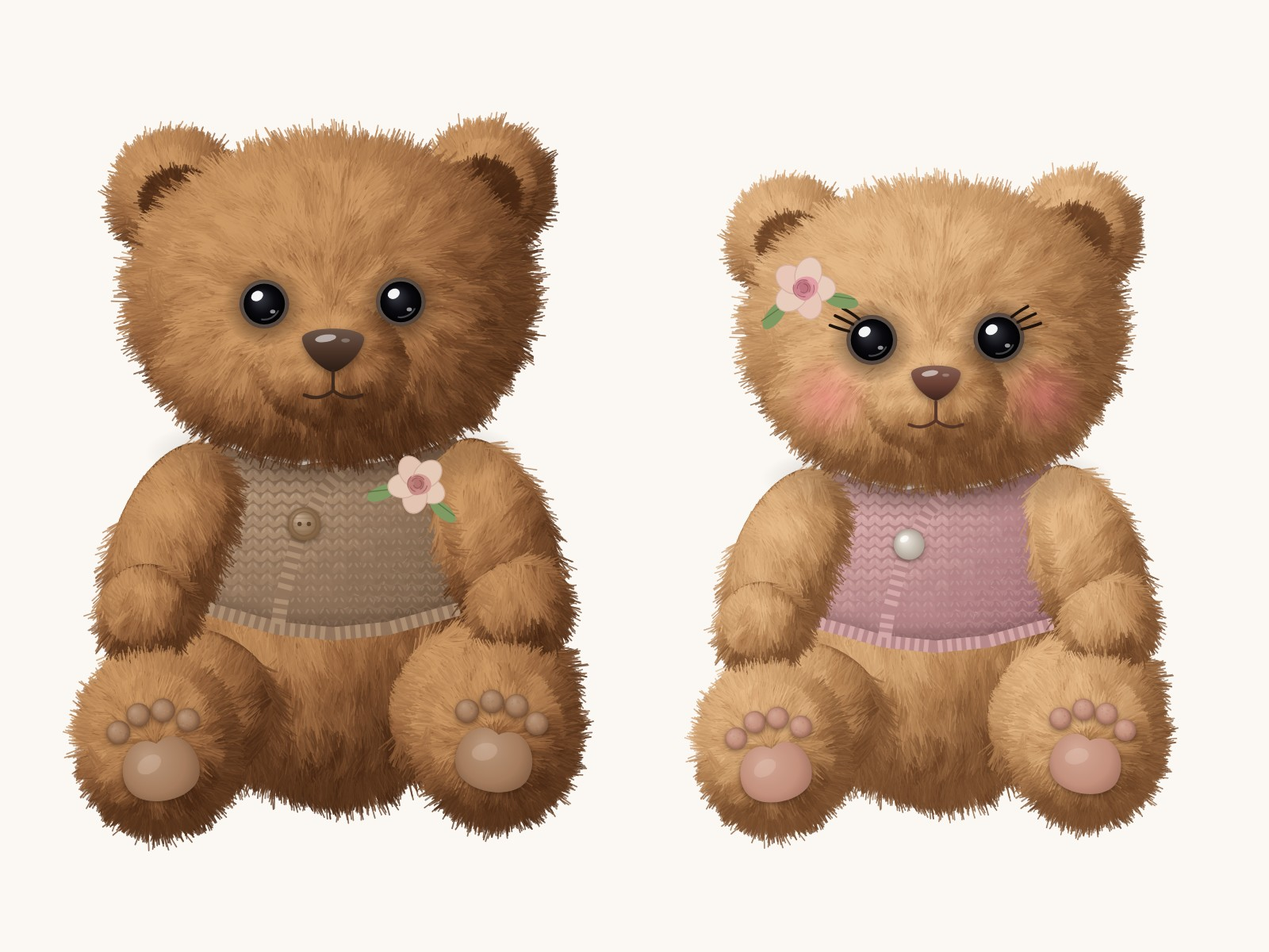
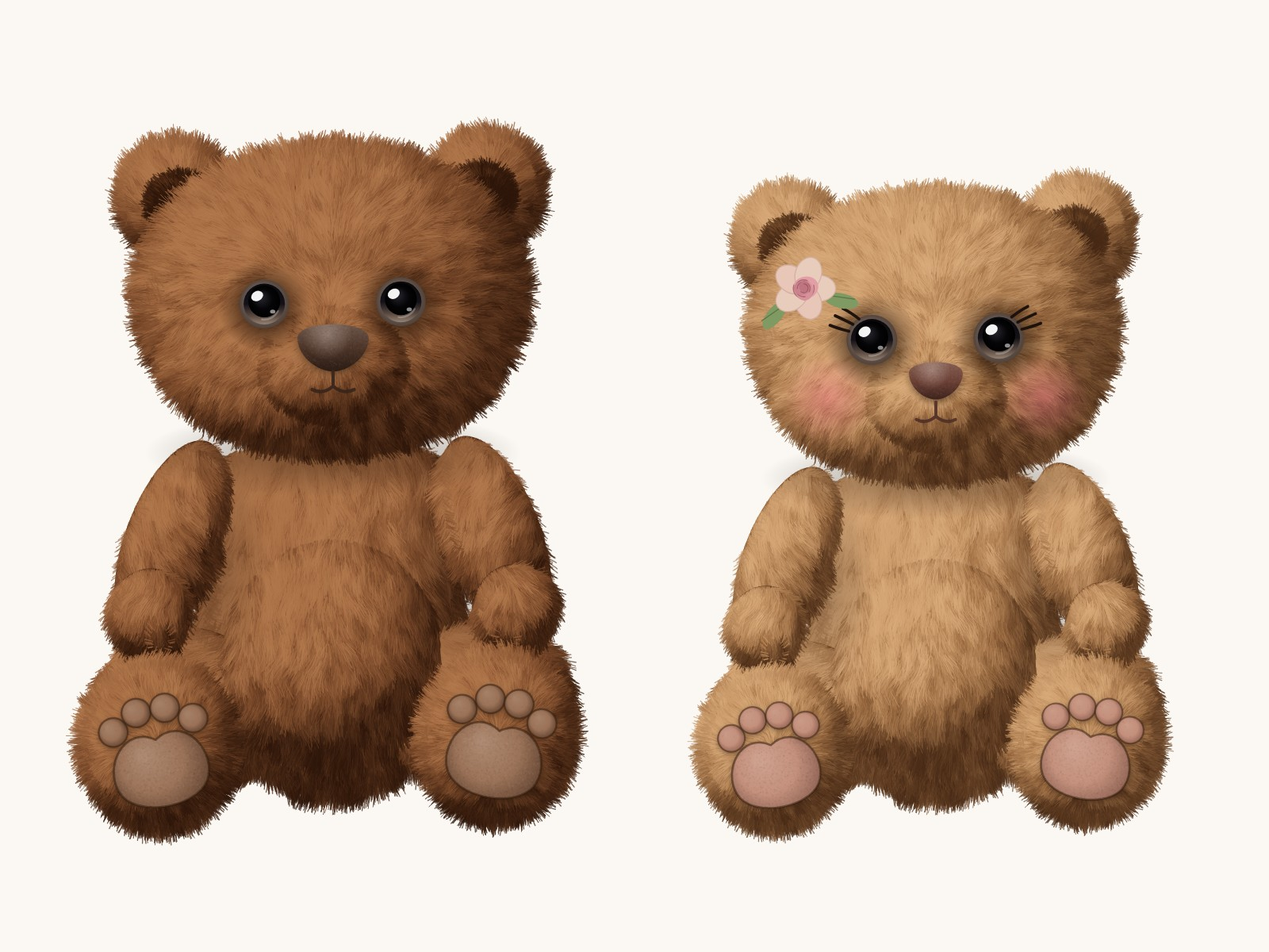
Quiet Moon: bear model sheet without vests, closer to the plush photo
Finer three-layer mohair, glass eyes with a smoky iris, matte felt nose,
big matte foot pads, palm pads, slimmer arms. She keeps her rose.

Claude-Session: https://claude.ai/code/session_01TQagdzuNLkEBLnnKwjzNDR

Changed region(s): [[0.0312, 0.1233, 0.4688, 0.8942], [0.5312, 0.1542, 0.9375, 0.8942]]

diff --git a/designs/quiet-moon-bears/model-sheet.html b/designs/quiet-moon-bears/model-sheet.html
@@ -24,7 +24,7 @@ th{font-weight:normal;color:var(--soft)}
 <body>
 <main>
 <h1>Quiet Moon Bears: model sheet</h1>
-<p class="sub">Turnaround drawings for the 3D bears. He is drawn from the photo: same face, proportions, fur and vest. She is designed from him.</p>
+<p class="sub">Turnaround drawings for the 3D bears. He is drawn from the photo: same face, proportions and fur. She is designed from him. No clothes; she keeps her rose.</p>
 
 <h2>Reference photos</h2>
 <div class="row">
@@ -70,10 +70,10 @@ th{font-weight:normal;color:var(--soft)}
 <tr><th>Feet</th><td>Big oval soles. Smooth tan pad (looks like suede or clay) and 4 toe beans</td><td>Same, rosy tan</td></tr>
 <tr><th>Tail</th><td>Small round fur ball, low on the back</td><td>Same</td></tr>
 <tr><th>Fur</th><td>Medium-long shaggy mohair, clumps falling slightly down. Darker at the roots, lighter tips</td><td>Same length, softer and a little curlier</td></tr>
-<tr><th>Clothes</th><td>Oatmeal cable-knit vest, one wooden button on the left, small dusty-pink rose on his left chest</td><td>Dusty-rose knit vest, cream pearl button, the same rose at her ear</td></tr>
+<tr><th>Accessories</th><td>None</td><td>Dusty-pink rose by her right ear</td></tr>
 <tr><th>Colours</th>
-<td><span class="sw" style="background:#a8754c"></span>fur #a8754c<br><span class="sw" style="background:#6a4026"></span>fur shadow #6a4026<br><span class="sw" style="background:#a47b5c"></span>pads #a47b5c<br><span class="sw" style="background:#4a3226"></span>nose #4a3226<br><span class="sw" style="background:#a08167"></span>vest #a08167</td>
-<td><span class="sw" style="background:#c79464"></span>fur #c79464<br><span class="sw" style="background:#8a5a36"></span>fur shadow #8a5a36<br><span class="sw" style="background:#c3907c"></span>pads #c3907c<br><span class="sw" style="background:#6a3f34"></span>nose #6a3f34<br><span class="sw" style="background:#c99a98"></span>vest #c99a98</td></tr>
+<td><span class="sw" style="background:#a8754c"></span>fur #a8754c<br><span class="sw" style="background:#6a4026"></span>fur shadow #6a4026<br><span class="sw" style="background:#a47b5c"></span>pads #a47b5c<br><span class="sw" style="background:#4a3226"></span>nose #4a3226</td>
+<td><span class="sw" style="background:#c79464"></span>fur #c79464<br><span class="sw" style="background:#8a5a36"></span>fur shadow #8a5a36<br><span class="sw" style="background:#c3907c"></span>pads #c3907c<br><span class="sw" style="background:#6a3f34"></span>nose #6a3f34<br><span class="sw" style="background:#e2a0a6"></span>rose #e2a0a6</td></tr>
 </table>
 </main>
 
@@ -93,10 +93,8 @@ const rgb=(c,a=1)=>`rgba(${c[0]|0},${c[1]|0},${c[2]|0},${a})`;
 const LIGHT=(()=>{ const l=[-.45,-.62,.64], n=Math.hypot(...l); return l.map(v=>v/n); })();
 
 const STYLE={
-  he:{dark:'#4a2a16',mid:'#8e5c37',light:'#c8935f',tip:'#dcae7c',pad:'#a47b5c',padD:'#6e4a33',nose:'#4a3226',vest:'#a08167',vestD:'#6f5640',vestL:'#c4a888',
-      btn:'#a8835c',rose:'#d39a92',roseD:'#a35f5c',girl:false,s:1},
-  she:{dark:'#6a4226',mid:'#ad7a4c',light:'#e0b17f',tip:'#f0cfa3',pad:'#c3907c',padD:'#8f5e4e',nose:'#6a3f34',vest:'#c99a98',vestD:'#93626a',vestL:'#e8c3c0',
-      btn:'#f4ece0',rose:'#e2a0a6',roseD:'#ad5f6c',girl:true,s:.93}};
+  he:{dark:'#2e170b',mid:'#764628',light:'#a96f45',tip:'#c99566',pad:'#9a7258',padD:'#5e3e2b',nose:'#4a3226',girl:false,s:1},
+  she:{dark:'#4a2c18',mid:'#9a6a40',light:'#cf9d6c',tip:'#f0cfa3',pad:'#c3907c',padD:'#8f5e4e',nose:'#6a3f34',rose:'#e2a0a6',roseD:'#ad5f6c',girl:true,s:.93}};
 
 /* ---------- one furry ellipse ---------- */
 // p: {x,y,rx,ry,rot, flow(x,y)->angle, len, dens, tone (0..1 base brightness), fuzz (edge hair 0..1), arc:[a0,a1] edge range}
@@ -104,45 +102,52 @@ function fur(g,S,p){
   const dark=hex(S.dark), mid=hex(S.mid), light=hex(S.light), tip=hex(S.tip);
   const cr=cos(p.rot||0), sr=sin(p.rot||0);
   const local=(x,y)=>{ const dx=x-p.x, dy=y-p.y; return [(dx*cr+dy*sr)/p.rx,(-dx*sr+dy*cr)/p.ry]; };
-  const shadeAt=(x,y)=>{ const [u,v]=local(x,y), r2=u*u+v*v; if(r2>1.15) return -1; const nz=Math.sqrt(Math.max(0,1-Math.min(1,r2)));
+  const shadeAt=(x,y)=>{ const [u0,v0]=local(x,y); if(u0*u0+v0*v0>1.15) return -1; let u=u0, v=v0;
+    if(p.sh){ u=(x-p.sh[0])/p.sh[2]; v=(y-p.sh[1])/p.sh[3]; } const r2=u*u+v*v; const nz=Math.sqrt(Math.max(0,1-Math.min(1,r2)));
     const nx=u*cr-v*sr, ny=u*sr+v*cr; let d=nx*LIGHT[0]+ny*LIGHT[1]+nz*LIGHT[2];
     return cl(.18+.82*Math.max(0,d)*(p.tone??1)-.12*Math.max(0,v)*(p.ao??1),0,1); };
   const col=(s,t)=>{ let c=s<.5?mix(dark,mid,s*2):mix(mid,light,(s-.5)*2); return mix(c,tip,t*.35*s); };
   // undercoat: smooth shading
-  g.save(); g.translate(p.x,p.y); g.rotate(p.rot||0);
+  if(p.under!==false){ g.save(); g.translate(p.x,p.y); g.rotate(p.rot||0);
   const gr=g.createRadialGradient(-p.rx*.35,-p.ry*.4,p.rx*.1,0,0,Math.max(p.rx,p.ry)*1.05);
   gr.addColorStop(0,rgb(col(.62*(p.tone??1),0))); gr.addColorStop(.7,rgb(col(.32,0))); gr.addColorStop(1,rgb(col(.12,0)));
-  g.fillStyle=gr; g.beginPath(); g.ellipse(0,0,p.rx,p.ry,0,0,2*PI); g.fill(); g.restore();
-  const L=p.len*(p.scale||1), area=PI*p.rx*p.ry, n=Math.round(area*(p.dens||.32));
-  const stroke=(x,y,a,len,s,w,alpha,t)=>{ const bend=(rnd()-.5)*.9, mx=x+cos(a)*len*.5+cos(a+PI/2)*len*bend*.25, my=y+sin(a)*len*.5+sin(a+PI/2)*len*bend*.25;
-    g.strokeStyle=rgb(col(s,t),alpha); g.lineWidth=w; g.beginPath(); g.moveTo(x,y); g.quadraticCurveTo(mx,my,x+cos(a+bend*.4)*len,y+sin(a+bend*.4)*len); g.stroke(); };
+  g.fillStyle=gr; g.beginPath(); g.ellipse(0,0,p.rx,p.ry,0,0,2*PI); g.fill(); g.restore(); }
+  const L=p.len*(p.scale||1), area=PI*p.rx*p.ry, n=Math.round(area*(p.dens||.5));
+  // one hair: a soft S-curve (mohair has a little crimp), thin at the tip
+  const stroke=(x,y,a,len,s,w,alpha,t)=>{ const bend=(rnd()-.5)*.8, crimp=(rnd()-.5)*.5, ex=x+cos(a+bend*.35)*len, ey=y+sin(a+bend*.35)*len;
+    const c1x=x+cos(a)*len*.33+cos(a+PI/2)*len*crimp*.3, c1y=y+sin(a)*len*.33+sin(a+PI/2)*len*crimp*.3;
+    const c2x=x+cos(a)*len*.66-cos(a+PI/2)*len*(crimp-bend)*.25, c2y=y+sin(a)*len*.66-sin(a+PI/2)*len*(crimp-bend)*.25;
+    g.strokeStyle=rgb(col(s,t),alpha); g.lineWidth=w; g.beginPath(); g.moveTo(x,y); g.bezierCurveTo(c1x,c1y,c2x,c2y,ex,ey); g.stroke(); };
   g.lineCap='round';
-  // two passes: dense darker under-hair, then lighter top hair in tufts
-  for(let pass=0;pass<2;pass++){ const cnt=pass?n*.55:n;
+  // three layers: dark dense under-hair, the main coat in tufts, then a few light glossy tips on top
+  const PASS=[[1,.7,1.3,.5,.78,0],[.9,1,.95,.7,1,.6],[.3,1.05,.7,.75,1.18,1]];
+  for(const [k,lk,w,al,sm,tp] of PASS){ const cnt=n*k;
     for(let i=0;i<cnt;i++){ const a0=rnd()*2*PI, r0=Math.sqrt(rnd()), u=cos(a0)*r0, v=sin(a0)*r0;
       const x=p.x+(u*p.rx)*cr-(v*p.ry)*sr, y=p.y+(u*p.rx)*sr+(v*p.ry)*cr; const s=shadeAt(x,y); if(s<0) continue;
-      const tuft=noise(x*.045,y*.045), ang=p.flow(x,y)+(tuft-.5)*1.3+(rnd()-.5)*.5;
-      const clump=noise(x*.11+9,y*.11+3);
-      const ss=cl(s*(pass?1.02:.82)+(clump-.5)*.32+(rnd()-.5)*.14,0,1);
-      stroke(x,y,ang,L*(.55+rnd()*.7)*(pass?1.1:.8),ss,pass?1.25:1.6,pass?.75:.6,pass?clump:0); } }
+      const tuft=noise(x*.05,y*.05), ang=p.flow(x,y)+(tuft-.5)*1.2+(rnd()-.5)*.45;
+      const clump=noise(x*.13+9,y*.13+3), pn=noise(x*.2+40,y*.2+17), part=1-.22*cl((.32-pn)/.12,0,1); // darker partings between clumps
+      const ss=cl(s*sm*part+(clump-.5)*.3+(rnd()-.5)*.16,0,1);
+      stroke(x,y,ang,L*(.55+rnd()*.6)*lk,ss,w,al,tp*clump); } }
   // fuzzy edge: hairs sticking out past the outline
-  const [e0,e1]=p.arc||[0,2*PI], ne=Math.round((p.rx+p.ry)*(e1-e0)/2*(p.fuzz??1)*1.6);
+  const [e0,e1]=p.arc||[0,2*PI], ne=Math.round((p.rx+p.ry)*(e1-e0)/2*(p.fuzz??1)*1.8);
   for(let i=0;i<ne;i++){ const t=e0+rnd()*(e1-e0), k=.9+rnd()*.08; const lx=cos(t)*p.rx*k, ly=sin(t)*p.ry*k;
     const x=p.x+lx*cr-ly*sr, y=p.y+lx*sr+ly*cr; const nAng=Math.atan2(sin(t)/p.ry,cos(t)/p.rx)+(p.rot||0);
     const fl=p.flow(x,y); let ang=nAng*.55+fl*.45; if(Math.abs(nAng-fl)>PI) ang+=PI*.45; ang+=(rnd()-.5)*.7;
-    const s=cl(shadeAt(x,y)*.95+(rnd()-.5)*.2,0,1); stroke(x,y,ang,L*(.45+rnd()*.6),Math.max(s,.08),1.15,.7,.6); }
+    const s=cl(shadeAt(x,y)*.95+(rnd()-.5)*.2,0,1); stroke(x,y,ang,L*(.25+rnd()*.45),Math.max(s,.08),.9,.6,.6); }
 }
 const away=(ox,oy,down=.6)=>(x,y)=>{ const dx=x-ox, dy=y-oy, d=Math.hypot(dx,dy)||1; return Math.atan2(dy/d+down,dx/d); };
 const along=(a)=>()=>a;
 
 /* ---------- details ---------- */
 function eye(g,x,y,r,S,side){ // glossy black bead with a thin grey-brown ring
-  const sh=g.createRadialGradient(x,y+r*.15,r*.7,x,y+r*.1,r*1.9); sh.addColorStop(0,'rgba(40,20,8,.55)'); sh.addColorStop(1,'rgba(40,20,8,0)');
-  g.fillStyle=sh; g.beginPath(); g.arc(x,y,r*1.9,0,2*PI); g.fill();
+  const sh=g.createRadialGradient(x,y+r*.15,r*.7,x,y+r*.1,r*2.1); sh.addColorStop(0,'rgba(30,14,5,.7)'); sh.addColorStop(1,'rgba(40,20,8,0)');
+  g.fillStyle=sh; g.beginPath(); g.arc(x,y,r*2.1,0,2*PI); g.fill();
   const ring=g.createRadialGradient(x-r*.3,y-r*.3,0,x,y,r*1.15); ring.addColorStop(0,'#9b8f88'); ring.addColorStop(1,'#4f4038');
   g.fillStyle=ring; g.beginPath(); g.ellipse(x,y,r*1.12,r*1.1,0,0,2*PI); g.fill();
-  const b=g.createRadialGradient(x-r*.25,y-r*.3,r*.05,x,y,r); b.addColorStop(0,'#3a3a44'); b.addColorStop(.55,'#0b0b10'); b.addColorStop(1,'#000');
+  const b=g.createLinearGradient(0,y-r,0,y+r); b.addColorStop(0,'#08080b'); b.addColorStop(.5,'#141218'); b.addColorStop(.78,'#5d4c42'); b.addColorStop(1,'#a08d7e');
   g.fillStyle=b; g.beginPath(); g.ellipse(x,y,r*.93,r*.92,0,0,2*PI); g.fill();
+  const pu=g.createRadialGradient(x-r*.2,y-r*.35,0,x,y-r*.12,r*.75); pu.addColorStop(0,'#2b2a32'); pu.addColorStop(.6,'#050507'); pu.addColorStop(1,'#000');
+  g.fillStyle=pu; g.beginPath(); g.arc(x,y-r*.12,r*.72,0,2*PI); g.fill();
   g.fillStyle='rgba(255,255,255,.95)'; g.beginPath(); g.ellipse(x-r*.32,y-r*.36,r*.28,r*.22,-.5,0,2*PI); g.fill();
   g.fillStyle='rgba(255,255,255,.55)'; g.beginPath(); g.ellipse(x+r*.38,y+r*.34,r*.12,r*.09,0,0,2*PI); g.fill();
   g.strokeStyle='rgba(255,255,255,.25)'; g.lineWidth=r*.08; g.beginPath(); g.arc(x,y,r*.7,PI*.15,PI*.55); g.stroke();
@@ -152,60 +157,31 @@ function eye(g,x,y,r,S,side){ // glossy black bead with a thin grey-brown ring
 }
 function nose(g,x,y,w,h,S){ // rounded triangle, glossy
   g.save(); g.translate(x,y);
-  const p=new Path2D(); p.moveTo(-w*.5,-h*.28); p.bezierCurveTo(-w*.52,-h*.62,w*.52,-h*.62,w*.5,-h*.28); p.bezierCurveTo(w*.46,h*.12,w*.14,h*.5,0,h*.52); p.bezierCurveTo(-w*.14,h*.5,-w*.46,h*.12,-w*.5,-h*.28);
+  const p=new Path2D(); p.moveTo(-w*.5,-h*.2); p.bezierCurveTo(-w*.55,-h*.66,w*.55,-h*.66,w*.5,-h*.2); p.bezierCurveTo(w*.48,h*.22,w*.2,h*.52,0,h*.52); p.bezierCurveTo(-w*.2,h*.52,-w*.48,h*.22,-w*.5,-h*.2);
   const n=hex(S.nose), gr=g.createLinearGradient(0,-h*.6,0,h*.55); gr.addColorStop(0,rgb(mix(n,[255,235,220],.22))); gr.addColorStop(.55,rgb(n)); gr.addColorStop(1,rgb(mix(n,[0,0,0],.45)));
   g.shadowColor='rgba(30,15,5,.45)'; g.shadowBlur=w*.18; g.shadowOffsetY=h*.12; g.fillStyle=gr; g.fill(p); g.shadowColor='transparent';
-  g.fillStyle='rgba(255,255,255,.55)'; g.beginPath(); g.ellipse(-w*.12,-h*.3,w*.17,h*.09,-.15,0,2*PI); g.fill();
-  g.fillStyle='rgba(255,255,255,.25)'; g.beginPath(); g.ellipse(w*.2,-h*.25,w*.07,h*.05,0,0,2*PI); g.fill();
+  const sheen=g.createRadialGradient(-w*.08,-h*.3,0,-w*.08,-h*.3,w*.35); sheen.addColorStop(0,'rgba(255,240,230,.3)'); sheen.addColorStop(1,'rgba(255,240,230,0)'); g.fillStyle=sheen; g.fill(p);
+  g.save(); g.clip(p); for(let i=0;i<w*h*.5;i++){ g.fillStyle=`rgba(${rnd()<.5?'0,0,0':'255,235,220'},.03)`; g.fillRect((rnd()-.5)*w,(rnd()-.6)*h,1.2,1.2); } g.restore();
   g.restore();
 }
 function mouth(g,x,y,sc,S){ g.strokeStyle=rgb(mix(hex(S.nose),[0,0,0],.25),.9); g.lineWidth=3*sc; g.lineCap='round';
-  g.beginPath(); g.moveTo(x,y); g.lineTo(x,y+18*sc); g.quadraticCurveTo(x-12*sc,y+28*sc,x-26*sc,y+22*sc); g.moveTo(x,y+18*sc); g.quadraticCurveTo(x+12*sc,y+28*sc,x+26*sc,y+22*sc); g.stroke(); }
+  g.beginPath(); g.moveTo(x,y); g.lineTo(x,y+14*sc); g.quadraticCurveTo(x-9*sc,y+22*sc,x-19*sc,y+17*sc); g.moveTo(x,y+14*sc); g.quadraticCurveTo(x+9*sc,y+22*sc,x+19*sc,y+17*sc); g.stroke(); }
 function sole(g,x,y,rx,ry,rot,S){ // smooth pad and four beans on a furry rim
   g.save(); g.translate(x,y); g.rotate(rot);
   const pad=hex(S.pad), padD=hex(S.padD);
   const P=(cx,cy,rx2,ry2,a)=>{ const gr=g.createRadialGradient(cx-rx2*.35,cy-ry2*.4,0,cx,cy,Math.max(rx2,ry2)*1.1);
-    gr.addColorStop(0,rgb(mix(pad,[255,240,225],.25))); gr.addColorStop(.6,rgb(pad)); gr.addColorStop(1,rgb(padD));
-    g.shadowColor='rgba(40,20,8,.5)'; g.shadowBlur=rx*.12; g.shadowOffsetY=rx*.04; g.fillStyle=gr; g.beginPath(); g.ellipse(cx,cy,rx2,ry2,a,0,2*PI); g.fill(); g.shadowColor='transparent';
-    for(let i=0;i<rx2*ry2*.08;i++){ const t=rnd()*2*PI, r=Math.sqrt(rnd()); g.fillStyle=`rgba(${rnd()<.5?'60,35,20':'255,240,220'},.08)`; g.fillRect(cx+cos(t)*r*rx2*.9,cy+sin(t)*r*ry2*.9,1.4,1.4); } };
+    gr.addColorStop(0,rgb(mix(pad,[255,240,225],.12))); gr.addColorStop(.6,rgb(pad)); gr.addColorStop(1,rgb(padD));
+    g.shadowColor='rgba(40,20,8,.5)'; g.shadowBlur=rx*.12; g.shadowOffsetY=rx*.04; g.fillStyle=gr; g.beginPath(); g.ellipse(cx,cy,rx2,ry2,a,0,2*PI); g.fill(); g.shadowColor='transparent'; g.strokeStyle='rgba(45,25,12,.45)'; g.lineWidth=1.6; g.stroke();
+    for(let i=0;i<rx2*ry2*.08;i++){ const t=rnd()*2*PI, r=Math.sqrt(rnd()); g.fillStyle=`rgba(${rnd()<.5?'60,35,20':'255,240,220'},.035)`; g.fillRect(cx+cos(t)*r*rx2*.9,cy+sin(t)*r*ry2*.9,1.4,1.4); } };
   // main pad: a soft rounded heart
-  const mp=new Path2D(), w=rx*.72, h=ry*.62, cy=ry*.24;
+  const mp=new Path2D(), w=rx*.8, h=ry*.66, cy=ry*.22;
   mp.moveTo(0,cy-h*.55); mp.bezierCurveTo(w*.55,cy-h*.95,w*1.05,cy-h*.2,w*.85,cy+h*.35); mp.bezierCurveTo(w*.65,cy+h*.95,-w*.65,cy+h*.95,-w*.85,cy+h*.35); mp.bezierCurveTo(-w*1.05,cy-h*.2,-w*.55,cy-h*.95,0,cy-h*.55);
-  const gr=g.createRadialGradient(-w*.3,cy-h*.3,0,0,cy,w*1.2); gr.addColorStop(0,rgb(mix(pad,[255,240,225],.25))); gr.addColorStop(.6,rgb(pad)); gr.addColorStop(1,rgb(padD));
-  g.shadowColor='rgba(40,20,8,.5)'; g.shadowBlur=rx*.12; g.shadowOffsetY=rx*.04; g.fillStyle=gr; g.fill(mp); g.shadowColor='transparent';
-  g.fillStyle='rgba(255,240,225,.18)'; g.beginPath(); g.ellipse(-w*.25,cy-h*.1,w*.3,h*.2,-.4,0,2*PI); g.fill();
-  [[-.62,-.36,-.5],[-.22,-.56,-.15],[.22,-.56,.15],[.62,-.36,.5]].forEach(([bx,by,a])=>P(bx*rx*.95,by*ry,rx*.2,ry*.17,a));
+  const gr=g.createRadialGradient(-w*.3,cy-h*.3,0,0,cy,w*1.2); gr.addColorStop(0,rgb(mix(pad,[255,240,225],.2))); gr.addColorStop(.5,rgb(pad)); gr.addColorStop(1,rgb(mix(padD,[0,0,0],.15)));
+  g.shadowColor='rgba(40,20,8,.5)'; g.shadowBlur=rx*.12; g.shadowOffsetY=rx*.04; g.fillStyle=gr; g.fill(mp); g.shadowColor='transparent'; g.strokeStyle='rgba(45,25,12,.5)'; g.lineWidth=2; g.stroke(mp);
+  g.save(); g.clip(mp); for(let i=0;i<w*h*1.2;i++){ g.fillStyle=`rgba(${rnd()<.5?'50,30,15':'255,240,220'},.035)`; g.fillRect((rnd()-.5)*w*2,cy+(rnd()-.5)*h*2,1.4,1.4); } g.restore();
+  [[-.64,-.34,-.5],[-.23,-.54,-.15],[.23,-.54,.15],[.64,-.34,.5]].forEach(([bx,by,a])=>P(bx*rx*.95,by*ry,rx*.22,ry*.19,a));
   g.restore();
 }
-function knit(g,path,S,box,light){ // stockinette V stitches, shaded like a round chest
-  const v=hex(S.vest), vd=hex(S.vestD), vl=hex(S.vestL);
-  g.save(); g.clip(path);
-  g.fillStyle=rgb(mix(v,vd,.35)); g.fillRect(box[0],box[1],box[2],box[3]);
-  const st=13*light.sc, cols=Math.ceil(box[2]/st)+1, rows=Math.ceil(box[3]/(st*.8))+1;
-  for(let r=0;r<rows;r++) for(let c=0;c<cols;c++){ const x=box[0]+c*st+(r%2)*0, y=box[1]+r*st*.8;
-    const u=(x-light.cx)/light.rx, w=(y-light.cy)/light.ry, nz=Math.sqrt(Math.max(0,1-u*u-w*w*.4)), d=cl(-.45*u-.5*w+.65*nz,0,1);
-    const cable=light.cable&&Math.abs(((x-light.cx)%(st*6)+st*6)%(st*6)-st*3)<st*1.2; const s=.25+.75*d+(rnd()-.5)*.1;
-    const base=mix(mix(vd,v,s),vl,Math.max(0,s-.6));
-    [-1,1].forEach(k=>{ g.fillStyle=rgb(base); g.beginPath(); g.ellipse(x+k*st*.22,y,st*.24,st*.48,k*-.55*(cable?1.3:1),0,2*PI); g.fill();
-      g.fillStyle=rgb(mix(base,[255,250,240],.18),.7); g.beginPath(); g.ellipse(x+k*st*.22-st*.05,y-st*.15,st*.08,st*.2,k*-.55,0,2*PI); g.fill(); });
-    if(rnd()<.25){ g.strokeStyle=rgb(vl,.35); g.lineWidth=.8; g.beginPath(); const fx=x+(rnd()-.5)*st, fy=y+(rnd()-.5)*st; g.moveTo(fx,fy); g.lineTo(fx+(rnd()-.5)*8,fy+(rnd()-.5)*8); g.stroke(); } }
-  // soft shadow at the edges of the garment
-  g.lineWidth=18*light.sc; g.strokeStyle='rgba(40,25,15,.25)'; g.filter=`blur(${8*light.sc}px)`; g.stroke(path); g.filter='none';
-  g.restore();
-}
-function rib(g,pts,S,wid){ // ribbed knit edging along a polyline
-  const vd=hex(S.vestD), v=hex(S.vest), vl=hex(S.vestL);
-  for(let i=0;i<pts.length-1;i++){ const [x0,y0]=pts[i], [x1,y1]=pts[i+1], len=Math.hypot(x1-x0,y1-y0), n=Math.ceil(len/5), a=Math.atan2(y1-y0,x1-x0);
-    for(let k=0;k<n;k++){ const t=k/n, x=x0+(x1-x0)*t, y=y0+(y1-y0)*t; g.save(); g.translate(x,y); g.rotate(a);
-      g.fillStyle=rgb(k%2?mix(v,vl,.35):mix(v,vd,.3)); g.fillRect(-2.6,-wid/2,5.2,wid); g.restore(); } }
-}
-function button(g,x,y,r,S){ const c=hex(S.btn); const gr=g.createRadialGradient(x-r*.4,y-r*.4,0,x,y,r);
-  gr.addColorStop(0,rgb(mix(c,[255,255,255],.35))); gr.addColorStop(1,rgb(mix(c,[40,20,5],.35)));
-  g.shadowColor='rgba(30,15,5,.5)'; g.shadowBlur=r*.5; g.shadowOffsetY=r*.15; g.fillStyle=gr; g.beginPath(); g.arc(x,y,r,0,2*PI); g.fill(); g.shadowColor='transparent';
-  if(!S.girl){ g.strokeStyle=rgb(mix(c,[40,20,5],.4),.6); g.lineWidth=1.5; g.beginPath(); g.arc(x,y,r*.72,0,2*PI); g.stroke();
-    g.fillStyle=rgb(mix(c,[30,15,5],.6)); [[-.28,0],[.28,0]].forEach(([dx,dy])=>{ g.beginPath(); g.arc(x+dx*r,y+dy*r,r*.13,0,2*PI); g.fill(); });
-    for(let i=0;i<6;i++){ g.strokeStyle=rgb(mix(c,[60,30,10],.3),.25); g.beginPath(); g.moveTo(x-r*.9,y-r*.6+i*r*.25); g.quadraticCurveTo(x,y-r*.5+i*r*.25+(rnd()-.5)*4,x+r*.9,y-r*.6+i*r*.25); g.stroke(); } }
-  else { g.fillStyle='rgba(255,255,255,.7)'; g.beginPath(); g.ellipse(x-r*.3,y-r*.35,r*.3,r*.2,-.5,0,2*PI); g.fill(); } }
 function rose(g,x,y,r,S,rot=0){ g.save(); g.translate(x,y); g.rotate(rot);
   const pc=hex(S.rose), pd=hex(S.roseD), cream=[236,220,196];
   [[-1.15,.55,-.6],[1.05,.75,.5]].forEach(([lx,ly,a])=>{ g.fillStyle='#7f9a62'; g.beginPath(); g.ellipse(lx*r,ly*r,r*.55,r*.24,a,0,2*PI); g.fill(); g.strokeStyle='#5c7444'; g.lineWidth=1; g.beginPath(); g.moveTo(lx*r*.5,ly*r*.5); g.lineTo(lx*r*1.4,ly*r*1.1); g.stroke(); });
@@ -214,6 +190,11 @@ function rose(g,x,y,r,S,rot=0){ g.save(); g.translate(x,y); g.rotate(rot);
   for(let i=0;i<4;i++){ const a=i*1.7, rr=r*(.42-i*.08); g.fillStyle=rgb(mix(pc,pd,i*.22)); g.beginPath(); g.ellipse(cos(a)*r*.06,sin(a)*r*.06,rr,rr*.85,a,0,2*PI); g.fill();
     g.strokeStyle=rgb(mix(pd,[60,20,20],.3),.6); g.beginPath(); g.arc(0,0,rr*.8,a,a+PI*1.2); g.stroke(); }
   g.restore(); }
+function palm(g,S,x,y,s){ // dark suede pad on the inside of the arm paw
+  const c=hex(S.padD), gr=g.createRadialGradient(x-s*3,y-5,0,x,y,22); gr.addColorStop(0,rgb(mix(c,[255,235,220],.18))); gr.addColorStop(.75,rgb(c)); gr.addColorStop(1,rgb(c,0));
+  g.save(); g.translate(x,y); g.rotate(s*.35); g.fillStyle=gr; g.beginPath(); g.ellipse(0,0,15,19,0,0,2*PI); g.fill(); g.restore();
+  // a few hairs falling over its edge
+  g.lineCap='round'; for(let i=0;i<40;i++){ const a=rnd()*2*PI, px=x+cos(a)*14, py=y+sin(a)*18; g.strokeStyle=rgb(mix(hex(S.mid),hex(S.light),rnd()),.7); g.lineWidth=.9; g.beginPath(); g.moveTo(px,py); g.lineTo(px-cos(a)*6+(rnd()-.5)*4,py-sin(a)*6+3); g.stroke(); } }
 function blush(g,x,y,r){ const gr=g.createRadialGradient(x,y,0,x,y,r); gr.addColorStop(0,'rgba(255,120,150,.38)'); gr.addColorStop(1,'rgba(255,120,150,0)'); g.fillStyle=gr; g.beginPath(); g.arc(x,y,r,0,2*PI); g.fill(); }
 function floorShadow(g,x,y,rx,ry){ const gr=g.createRadialGradient(x,y,0,x,y,rx); gr.addColorStop(0,'rgba(60,40,25,.35)'); gr.addColorStop(1,'rgba(60,40,25,0)'); g.save(); g.scale(1,ry/rx); g.fillStyle=gr; g.beginPath(); g.arc(x,y*rx/ry,rx,0,2*PI); g.fill(); g.restore(); }
 function contact(g,x,y,rx,ry,a=.35){ g.save(); g.translate(x,y); g.scale(1,ry/rx); const gr=g.createRadialGradient(0,0,0,0,0,rx); gr.addColorStop(0,`rgba(35,18,8,${a})`); gr.addColorStop(1,'rgba(35,18,8,0)'); g.fillStyle=gr; g.beginPath(); g.arc(0,0,rx,0,2*PI); g.fill(); g.restore(); }
@@ -224,52 +205,51 @@ function tuft(g,S,x,y,sc){ // a few soft curls on top of her head, each one buil
       g.strokeStyle=rgb(mix(c,l,.25+rnd()*.7),.85); g.lineWidth=1.7; g.beginPath();
       for(let k=0;k<=12;k++){ const t=k/12, a=a0+sweep*t, rr=r*(1-.45*t); const px=cx+cos(a)*rr+w, py=cy+sin(a)*rr*.8; k?g.lineTo(px,py):g.moveTo(px,py); } g.stroke(); } }); }
 /* ---------- the views (photo coordinates) ---------- */
-const FL=21; // fur length
+const FL=17; // fur length
 function front(g,S){ const L=FL;
   floorShadow(g,450,940,300,36);
   // ears behind the head
   [[308,382,-.3],[588,374,.3]].forEach(([x,y,r])=>fur(g,S,{x,y,rx:50,ry:50,rot:r,len:L*.8,flow:away(x,y+30,.2),fuzz:1.2}));
   [[312,388],[584,380]].forEach(([x,y])=>{ fur(g,{...S,mid:S.dark,light:S.mid,tip:S.mid},{x,y,rx:29,ry:27,len:L*.45,flow:away(x,y+10,0),tone:.55,fuzz:.4,dens:.5}); contact(g,x+2,y+4,26,22,.4); });
   // body and thighs
-  fur(g,S,{x:450,y:770,rx:128,ry:150,len:L,flow:away(450,560,.9)});
+  fur(g,S,{x:450,y:770,rx:120,ry:150,len:L,flow:away(450,560,.9)});
+  fur(g,S,{x:450,y:650,rx:124,ry:56,len:L,flow:away(450,560,.9),fuzz:.4,under:false,dens:.6,sh:[450,770,150,200]});
   [[322,842,.35],[580,838,-.35]].forEach(([x,y,r])=>fur(g,S,{x,y,rx:82,ry:72,rot:r,len:L,flow:away(450,760,.3)}));
-  // vest
-  const vp=new Path2D('M340 600 Q450 650 560 598 Q590 640 580 690 Q574 728 566 752 Q450 788 334 752 Q324 724 318 690 Q312 640 340 600 Z');
-  knit(g,vp,S,[300,580,300,220],{cx:450,cy:690,rx:150,ry:130,sc:1,cable:true});
-  rib(g,[[336,752],[400,770],[450,775],[500,770],[566,752]],S,12); rib(g,[[470,612],[440,648],[418,690],[404,742],[400,768]],S,13);
-  button(g,424,676,15,S);
-  // arms
-  [[302,690,.38,1],[598,686,-.38,-1]].forEach(([x,y,r,s])=>{ fur(g,S,{x,y,rx:48,ry:92,rot:r,len:L*.9,flow:along(PI/2-s*.35)}); fur(g,S,{x:x-s*20,y:y+62,rx:42,ry:40,len:L*.8,flow:away(x,y,.8),tone:.95}); });
+  // round tummy
+  fur(g,S,{x:450,y:790,rx:96,ry:100,len:L*.9,flow:away(450,600,.9),fuzz:0,tone:1.04,under:false,dens:.35});
+  // arms, with a soft shadow on the body under each
+  [[332,712],[568,708]].forEach(([x,y])=>contact(g,x,y,60,110,.35));
+  [[304,690,.36,1],[596,686,-.36,-1]].forEach(([x,y,r,s])=>{ fur(g,S,{x,y,rx:41,ry:94,rot:r,len:L*.9,flow:along(PI/2-s*.35)}); fur(g,S,{x:x-s*18,y:y+64,rx:37,ry:38,len:L*.8,flow:away(x,y,.8),tone:.95});
+    palm(g,S,x-s*10,y+86,s); });
   // feet soles
-  [[292,876,-.18],[598,868,.18]].forEach(([x,y,r])=>{ fur(g,S,{x,y,rx:66,ry:74,rot:r,len:L*.75,flow:away(x,y,0),fuzz:1.3}); sole(g,x,y+4,54,62,r,S); });
-  // head shadow on the vest, then head with lower cheeks
+  [[292,876,-.18],[598,868,.18]].forEach(([x,y,r])=>{ fur(g,S,{x,y,rx:68,ry:76,rot:r,len:L*.75,flow:away(x,y,0),fuzz:1.3}); sole(g,x,y+4,60,68,r,S); });
+  // head shadow on the chest, then head with lower cheeks
   contact(g,450,612,170,40,.45);
-  fur(g,S,{x:448,y:470,rx:172,ry:132,len:L,flow:away(450,505,.35),fuzz:1.1});
-  fur(g,S,{x:448,y:528,rx:150,ry:82,len:L*.85,flow:away(450,505,.5),fuzz:.6,arc:[.1,PI-.1]});
+  fur(g,S,{x:448,y:470,rx:172,ry:132,len:L,flow:away(450,505,.35),fuzz:.8});
+  fur(g,S,{x:448,y:528,rx:150,ry:82,len:L*.85,flow:away(450,505,.5),fuzz:.6,arc:[.1,PI-.1],under:false});
   // snout: shorter, softer fur
   contact(g,450,556,70,24,.3);
   fur(g,S,{x:450,y:534,rx:64,ry:50,len:L*.42,flow:away(450,515,.1),dens:.6,fuzz:.5,tone:1.05});
   eye(g,388,478,S.girl?22:20,S,-1); eye(g,511,476,S.girl?22:20,S,1);
   if(S.girl){ blush(g,345,535,44); blush(g,555,533,44); }
-  nose(g,450,520,S.girl?48:56,S.girl?32:37,S); mouth(g,450,538,1,S);
-  if(S.girl) rose(g,322,428,30,S,-.3); else rose(g,526,640,26,S,.2);
+  nose(g,450,518,S.girl?52:64,S.girl?34:40,S); mouth(g,450,538,1,S);
+  if(S.girl) rose(g,322,428,30,S,-.3);
 }
 function side(g,S){ const L=FL; // facing right
   floorShadow(g,470,940,280,32);
   fur(g,S,{x:300,y:875,rx:30,ry:28,len:L*.8,flow:away(280,860,.3),fuzz:1.4}); // tail
   fur(g,{...S,mid:S.dark},{x:520,y:868,rx:100,ry:58,len:L,flow:along(0),tone:.7}); // far leg
   fur(g,S,{x:430,y:780,rx:122,ry:150,len:L,flow:away(450,560,1)});
-  const vp=new Path2D('M352 610 Q440 640 520 612 Q548 660 546 700 Q544 735 540 755 Q440 775 330 748 Q312 700 318 660 Q326 625 352 610 Z');
-  knit(g,vp,S,[300,590,260,200],{cx:450,cy:690,rx:130,ry:130,sc:1,cable:false});
-  rib(g,[[330,748],[440,772],[540,755]],S,12); rib(g,[[516,612],[536,660],[544,710],[540,755]],S,12);
-  if(!S.girl) rose(g,500,642,22,S,.6);
+  fur(g,S,{x:440,y:640,rx:105,ry:62,len:L,flow:away(450,560,1),fuzz:.4,under:false,dens:.6,sh:[430,780,150,200]}); // neck and shoulders
+  fur(g,S,{x:470,y:790,rx:86,ry:104,len:L*.9,flow:away(430,720,.6),fuzz:0,tone:1.04,under:false,dens:.35}); // tummy
+  contact(g,480,730,60,110,.3);
   fur(g,S,{x:520,y:862,rx:112,ry:64,len:L,flow:along(0)}); // near leg
   fur(g,S,{x:632,y:856,rx:36,ry:74,len:L*.7,flow:away(600,856,0),fuzz:1.2});
   sole(g,656,858,18,58,0,{...S}); // the sole seen edge-on
-  fur(g,S,{x:470,y:700,rx:46,ry:94,rot:-.4,len:L*.9,flow:along(PI/2-.4)}); fur(g,S,{x:505,y:762,rx:42,ry:40,len:L*.8,flow:away(470,700,.8)});
+  fur(g,S,{x:470,y:700,rx:40,ry:94,rot:-.4,len:L*.9,flow:along(PI/2-.4)}); fur(g,S,{x:505,y:762,rx:42,ry:40,len:L*.8,flow:away(470,700,.8)});
   contact(g,470,612,150,38,.45);
   fur(g,S,{x:450,y:470,rx:150,ry:132,len:L,flow:away(560,505,.35),fuzz:1.1});
-  fur(g,S,{x:470,y:530,rx:132,ry:80,len:L*.85,flow:away(560,505,.5),fuzz:.6,arc:[.1,PI-.1]});
+  fur(g,S,{x:470,y:530,rx:132,ry:80,len:L*.85,flow:away(560,505,.5),fuzz:.6,arc:[.1,PI-.1],under:false});
   fur(g,S,{x:418,y:352,rx:26,ry:50,rot:-.15,len:L*.75,flow:away(378,400,.1),fuzz:1.2}); // ear edge-on
   if(S.girl) rose(g,350,392,26,S,-.4);
   contact(g,585,560,60,20,.3);
@@ -282,12 +262,12 @@ function side(g,S){ const L=FL; // facing right
 function back(g,S){ const L=FL;
   floorShadow(g,450,940,300,36);
   [[320,872],[580,872]].forEach(([x,y])=>fur(g,S,{x,y,rx:82,ry:60,len:L,flow:away(450,800,.3)})); // legs reaching forward
-  fur(g,S,{x:450,y:770,rx:130,ry:152,len:L,flow:away(450,560,1)});
-  const vp=new Path2D('M330 612 Q450 590 570 612 Q590 660 580 700 Q574 730 566 752 Q450 790 334 752 Q324 728 320 700 Q310 660 330 612 Z');
-  knit(g,vp,S,[300,580,300,220],{cx:450,cy:680,rx:150,ry:130,sc:1,cable:true});
-  rib(g,[[334,752],[400,772],[450,778],[500,772],[566,752]],S,12);
+  fur(g,S,{x:450,y:770,rx:124,ry:152,len:L,flow:away(450,560,1)});
+  fur(g,S,{x:450,y:650,rx:124,ry:56,len:L,flow:away(450,560,1),fuzz:.4,under:false,dens:.6,sh:[450,770,150,200]});
+  fur(g,S,{x:450,y:810,rx:100,ry:96,len:L*.9,flow:away(450,700,.8),fuzz:0,under:false,dens:.35}); // round bottom
+  [[332,712],[568,708]].forEach(([x,y])=>contact(g,x,y,60,110,.35));
   fur(g,S,{x:450,y:868,rx:34,ry:32,len:L*.8,flow:away(450,850,.3),fuzz:1.4}); // tail
-  [[300,690,.38,1],[600,686,-.38,-1]].forEach(([x,y,r,s])=>{ fur(g,S,{x,y,rx:48,ry:92,rot:r,len:L*.9,flow:along(PI/2-s*.35)}); fur(g,S,{x:x-s*20,y:y+62,rx:42,ry:40,len:L*.8,flow:away(x,y,.8),tone:.95}); });
+  [[304,690,.36,1],[596,686,-.36,-1]].forEach(([x,y,r,s])=>{ fur(g,S,{x,y,rx:41,ry:94,rot:r,len:L*.9,flow:along(PI/2-s*.35)}); fur(g,S,{x:x-s*18,y:y+64,rx:37,ry:38,len:L*.8,flow:away(x,y,.8),tone:.95}); });
   contact(g,450,612,170,40,.45);
   fur(g,S,{x:448,y:482,rx:172,ry:142,len:L,flow:away(450,330,1.2),fuzz:1.1});
   [[308,370,-.3],[588,362,.3]].forEach(([x,y,r])=>fur(g,S,{x,y,rx:50,ry:48,rot:r,len:L*.8,flow:away(x,y+30,.2),fuzz:1.2}));
